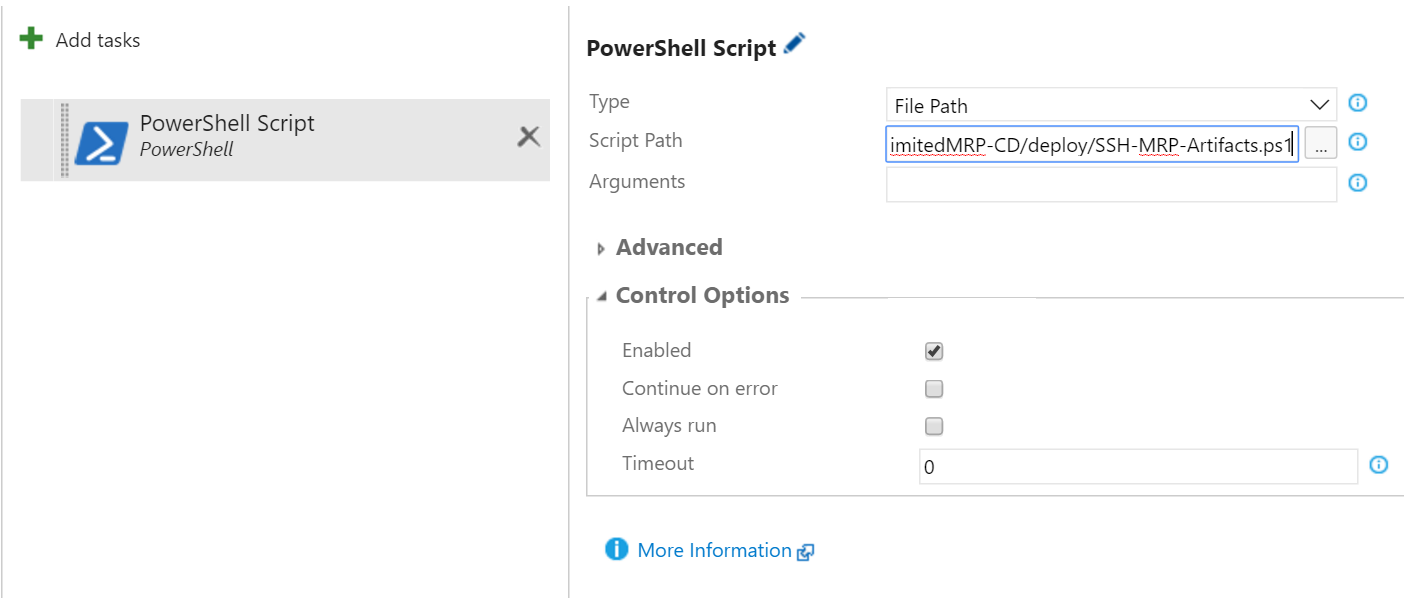
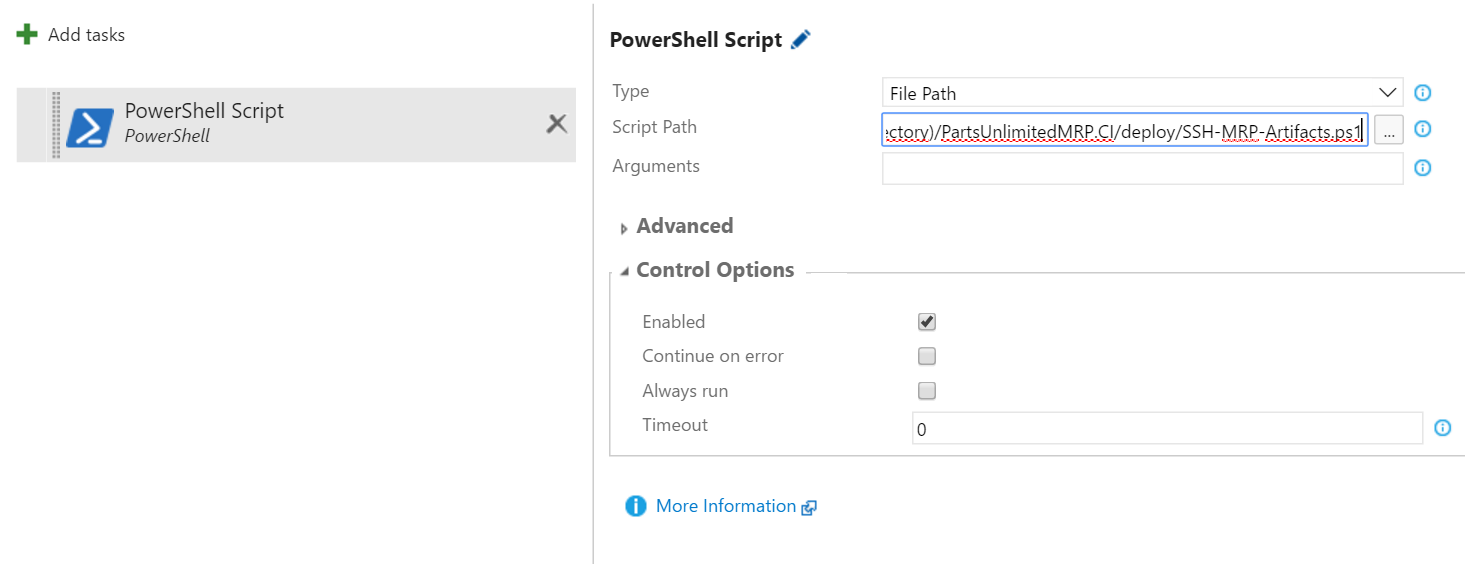
Update hosted lab to show hosted images and change readme wording

diff --git a/docs/HOL_Continuous-Deployment/README.md b/docs/HOL_Continuous-Deployment/README.md
@@ -63,7 +63,7 @@ In this lab, you will work with one machine which will serve as both the deploym
 
     ![](<media/create_empty_definition.png>)
 
-3. Keep the artifacts as **Build**, select the CI build definition that you used in the previous lab (such as "PartsUnlimited.CI"), check the checkbox to enable the **Continuous Deployment trigger**, and choose "MRP" as the  **agent queue**.
+3. Keep the artifacts as **Build**, select the CI build definition that you used in the previous lab (such as "PartsUnlimited.CI"), check the checkbox to enable the **Continuous Deployment trigger**, and choose "Hosted" as the  **agent queue**.
 
     ![](<media/choose_source_queue_new_dialog.png>) 
 
@@ -75,7 +75,7 @@ In this lab, you will work with one machine which will serve as both the deploym
 
 	 ![](<media/add_powershell_script.png>)
 
-6. Point to the **SSH-MRP-App.sh** build artifact as the script path in the task. Then save the release definition. 
+6. Point to the **SSH-MRP-Artifacts.ps1** build artifact as the script path in the task. Then save the release definition. 
 
 	 ![](<media/add_script_path.png>)
 
